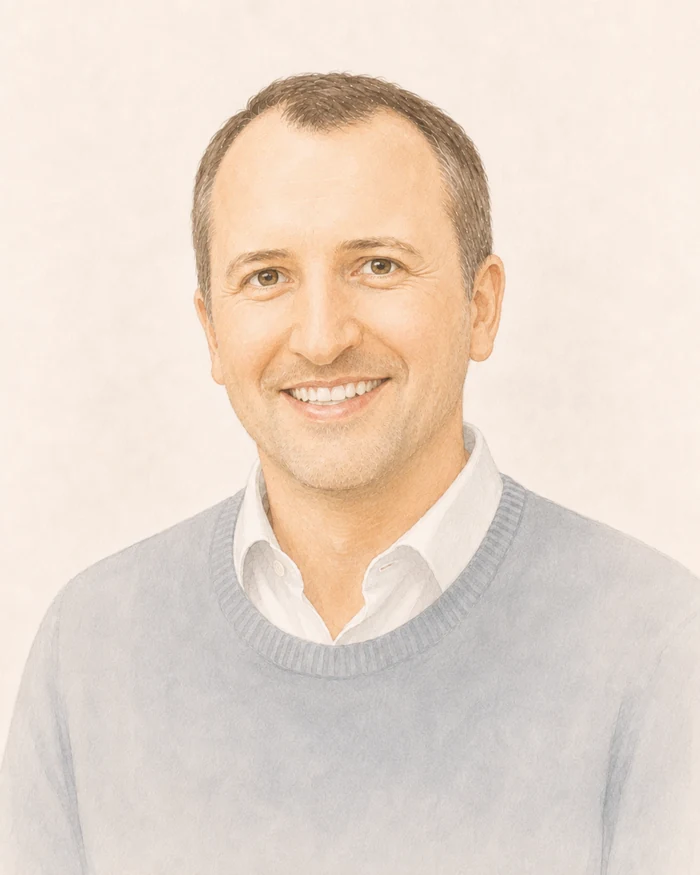
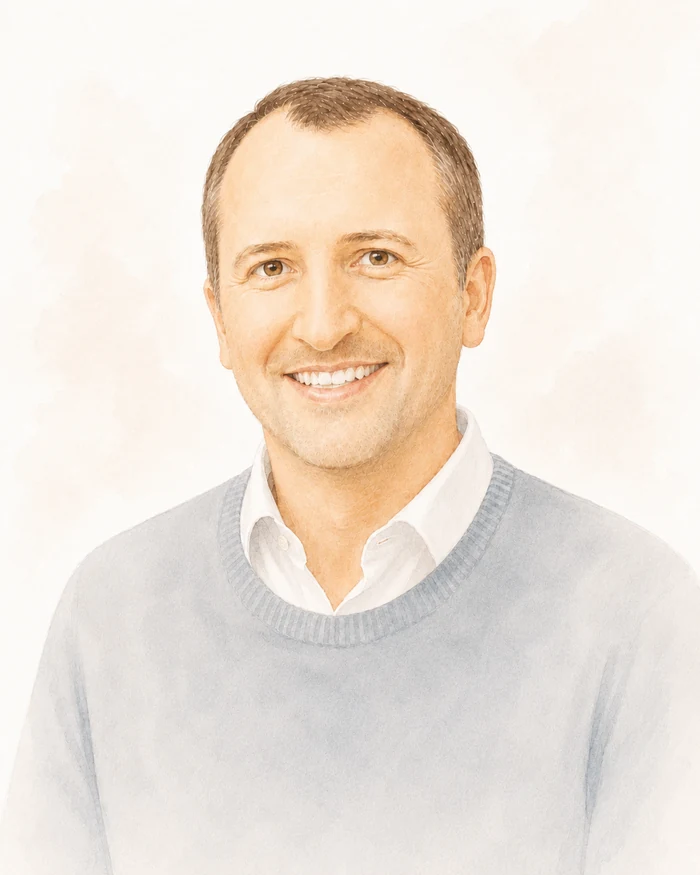
Newer portrait, and one header layout across the three pages
Portrait regenerated from the newer source at the same sizes and filenames.

The Research header is back to the same layout as Teaching and Working with
organisations: a 440px illustration, no page-specific column width. The title
drops a step on all three, from 43px to 33px, because at full size it
dominated the illustration beside it.

Headers now measure:
  research  image 440x330, text block 180px, header 442px
  teaching  image 440x330, text block 353px, header 465px
  practice  image 440x330, text block 315px, header 442px

Research still differs in one respect that CSS cannot settle: its standfirst
is a single sentence where the other two are paragraphs, so its text block is
180px against 315 and 353, and the illustration is the taller element rather
than the shorter one. A second sentence in that standfirst would even it out.

diff --git a/assets/js/site.js b/assets/js/site.js
@@ -287,7 +287,7 @@ const pages = {
             <a class="btn btn-ghost" href="${U('/practice/')}">${T('Working with organisations', 'Samenwerking met de praktijk')}</a>
           </div>
         </div>
-        <div class="portrait"><picture><source srcset="/portrait-staff.webp?v=20260811b" type="image/webp"><img src="/portrait-staff.png?v=20260811b" alt="${T('Portrait of Joost van de Brake', 'Portret van Joost van de Brake')}" width="420" height="560" loading="eager" fetchpriority="high"></picture></div>
+        <div class="portrait"><picture><source srcset="/portrait-staff.webp?v=20260811c" type="image/webp"><img src="/portrait-staff.png?v=20260811c" alt="${T('Portrait of Joost van de Brake', 'Portret van Joost van de Brake')}" width="420" height="560" loading="eager" fetchpriority="high"></picture></div>
       </div>
     </section>
 
@@ -390,7 +390,7 @@ const pages = {
       'Mijn onderzoek gaat over de vraag hoe mensen samenwerken binnen en tussen teams in moderne organisaties.'
     )}</p></div>
       <figure class="pg-hd-figure">
-        <img src="/assets/illustrations/research.webp?v=20260811b" width="1000" height="750"
+        <img src="/assets/illustrations/research.webp?v=20260811c" width="1000" height="750"
              alt="${T('Joost van de Brake at a desk, annotating a manuscript beside notebooks, printed charts, a network diagram, and a stack of organisational behaviour books.', 'Joost van de Brake aan zijn bureau terwijl hij aantekeningen maakt in een manuscript, naast notitieboeken, uitgeprinte grafieken, een netwerkdiagram en een stapel boeken over organisatiegedrag.')}"
              loading="eager" decoding="async">
       </figure>
@@ -498,7 +498,7 @@ const pages = {
       'Ik geef onderwijs aan studenten Management en Bedrijfskunde en aan senior leidinggevenden over de uitdagingen van moderne werkarrangementen: teamdynamiek, multiple team membership, hybride werk en duurzame inzetbaarheid. Mijn aanpak verbindt academische theorie met praktische toepassing, en ik betrek studenten actief bij mijn eigen onderzoeksprojecten.'
     )}</p></div>
       <figure class="pg-hd-figure">
-        <img src="/assets/illustrations/teaching.webp?v=20260811b" width="1000" height="750"
+        <img src="/assets/illustrations/teaching.webp?v=20260811c" width="1000" height="750"
              alt="${T('Joost van de Brake teaching a full lecture hall, with a network diagram and charts on the screen behind him.', 'Joost van de Brake geeft college in een volle collegezaal, met een netwerkdiagram en grafieken op het scherm achter hem.')}"
              loading="eager" decoding="async">
       </figure>
@@ -580,7 +580,7 @@ const pages = {
       'Ik werk samen met HR-teams, leidinggevenden en projectcontrollers in organisaties die hun team- en mensvraagstukken serieus willen aanpakken en willen handelen op basis van wat de evidence laat zien. Eerdere partners zijn onder andere toegepaste onderzoeksinstituten, ziekenhuizen, energie- en infrastructuurbedrijven, landelijke zorgkoepels, gemeenten en ministeries. Ik sta open voor nieuwe samenwerkingen.'
     )}</p></div>
       <figure class="pg-hd-figure">
-        <img src="/assets/illustrations/practice.webp?v=20260811b" width="1000" height="750"
+        <img src="/assets/illustrations/practice.webp?v=20260811c" width="1000" height="750"
              alt="${T('Joost van de Brake in discussion with five colleagues around a table covered in printed charts and network diagrams.', 'Joost van de Brake in gesprek met vijf collega’s rond een tafel vol uitgeprinte grafieken en netwerkdiagrammen.')}"
              loading="eager" decoding="async">
       </figure>

diff --git a/index.html b/index.html
@@ -231,9 +231,9 @@
   location.replace('/' + id + '/' + (nl ? '?lang=nl' : ''));
 })();
 </script>
-<link rel="stylesheet" href="/assets/css/tokens.css?rev=20260811j">
-<link rel="stylesheet" href="/assets/css/base.css?rev=20260811j">
-<link rel="stylesheet" href="/assets/css/home.css?rev=20260811j">
+<link rel="stylesheet" href="/assets/css/tokens.css?rev=20260811k">
+<link rel="stylesheet" href="/assets/css/base.css?rev=20260811k">
+<link rel="stylesheet" href="/assets/css/home.css?rev=20260811k">
 </head>
 <body data-page="home">
 
@@ -285,7 +285,7 @@
           <a class="btn btn-ghost" href="/practice/">Working with organisations</a>
         </div>
       </div>
-      <div class="portrait"><picture><source srcset="/portrait-staff.webp?v=20260811b" type="image/webp"><img src="/portrait-staff.png?v=20260811b" alt="Portrait of Joost van de Brake" width="420" height="560" loading="eager" fetchpriority="high"></picture></div>
+      <div class="portrait"><picture><source srcset="/portrait-staff.webp?v=20260811c" type="image/webp"><img src="/portrait-staff.png?v=20260811c" alt="Portrait of Joost van de Brake" width="420" height="560" loading="eager" fetchpriority="high"></picture></div>
     </div>
   </section>
 
@@ -384,6 +384,6 @@
 <!-- footer:end -->
 
 
-<script src="/assets/js/site.js?rev=20260811j" defer></script>
+<script src="/assets/js/site.js?rev=20260811k" defer></script>
 </body>
 </html>

diff --git a/mtm-portfolio-navigator/index.html b/mtm-portfolio-navigator/index.html
@@ -31,9 +31,9 @@
   <link rel="preconnect" href="https://fonts.googleapis.com">
   <link rel="preconnect" href="https://fonts.gstatic.com" crossorigin>
   <link href="https://fonts.googleapis.com/css2?family=Libre+Baskerville:ital,wght@0,400;0,700;1,400&family=Source+Sans+3:opsz,wght@9..40,300;9..40,400;9..40,600;9..40,700&display=swap" rel="stylesheet">
-  <link rel="stylesheet" href="/assets/css/tokens.css?rev=20260811j">
-  <link rel="stylesheet" href="/assets/css/base.css?rev=20260811j">
-  <link rel="stylesheet" href="styles.css?rev=20260811j">
+  <link rel="stylesheet" href="/assets/css/tokens.css?rev=20260811k">
+  <link rel="stylesheet" href="/assets/css/base.css?rev=20260811k">
+  <link rel="stylesheet" href="styles.css?rev=20260811k">
   <script type="application/ld+json">
   {
     "@context": "https://schema.org",
@@ -174,7 +174,7 @@
   <noscript>
     <div class="noscript">Enable JavaScript to use the MTM Portfolio Navigator.</div>
   </noscript>
-  <script src="content.js?rev=20260811j"></script>
-  <script src="app.js?rev=20260811j"></script>
+  <script src="content.js?rev=20260811k"></script>
+  <script src="app.js?rev=20260811k"></script>
 </body>
 </html>

diff --git a/mtm-resources/index.html b/mtm-resources/index.html
@@ -31,9 +31,9 @@
   <link rel="preconnect" href="https://fonts.googleapis.com">
   <link rel="preconnect" href="https://fonts.gstatic.com" crossorigin>
   <link href="https://fonts.googleapis.com/css2?family=Libre+Baskerville:ital,wght@0,400;0,700;1,400&family=Source+Sans+3:opsz,wght@9..40,300;9..40,400;9..40,600;9..40,700&display=swap" rel="stylesheet">
-  <link rel="stylesheet" href="/assets/css/tokens.css?rev=20260811j">
-  <link rel="stylesheet" href="/assets/css/base.css?rev=20260811j">
-  <link rel="stylesheet" href="styles.css?rev=20260811j">
+  <link rel="stylesheet" href="/assets/css/tokens.css?rev=20260811k">
+  <link rel="stylesheet" href="/assets/css/base.css?rev=20260811k">
+  <link rel="stylesheet" href="styles.css?rev=20260811k">
   <script type="application/ld+json">
   {
     "@context": "https://schema.org",
@@ -343,7 +343,7 @@
     </div>
   </footer>
 
-  <script src="content.js?rev=20260811j"></script>
-  <script src="app.js?rev=20260811j"></script>
+  <script src="content.js?rev=20260811k"></script>
+  <script src="app.js?rev=20260811k"></script>
 </body>
 </html>

diff --git a/assets/css/home.css b/assets/css/home.css
@@ -817,18 +817,11 @@
   margin: 0;
 }
 
-/* Teaching and Working with organisations open with a paragraph; Research
-   opens with a single sentence, so its text block is much shorter. Narrowing
-   the whole column rather than the figure inside it keeps the illustration
-   next to the text instead of stranded against the right edge, and at this
-   size it barely rises above the text at all. */
-/* Inside the media query on purpose: this selector outranks the single-column
-   rule below, so unscoped it would keep two columns on a phone and squeeze the
-   text column to nothing. */
-@media (min-width: 901px) {
-  body[data-page="research"] .pg-hd.has-figure .wrap {
-    grid-template-columns: minmax(0, 1fr) minmax(0, 290px);
-  }
+/* The title has roughly half the width it would have on its own, so it takes
+   a step down the scale. At full size it dominated the illustration beside it,
+   most visibly on Research, whose standfirst is a single sentence. */
+.pg-hd.has-figure .wrap h1 {
+  font-size: clamp(1.7rem, 2.6vw, 2.1rem);
 }
 
 .pg-hd-figure img {

diff --git a/resources/index.html b/resources/index.html
@@ -98,9 +98,9 @@
   ]
 }
 </script>
-<link rel="stylesheet" href="/assets/css/tokens.css?rev=20260811j">
-<link rel="stylesheet" href="/assets/css/base.css?rev=20260811j">
-<link rel="stylesheet" href="/assets/css/home.css?rev=20260811j">
+<link rel="stylesheet" href="/assets/css/tokens.css?rev=20260811k">
+<link rel="stylesheet" href="/assets/css/base.css?rev=20260811k">
+<link rel="stylesheet" href="/assets/css/home.css?rev=20260811k">
 </head>
 <body data-page="resources">
 
@@ -158,6 +158,6 @@
   </div>
 </footer>
 
-<script src="/assets/js/site.js?rev=20260811j" defer></script>
+<script src="/assets/js/site.js?rev=20260811k" defer></script>
 </body>
 </html>

diff --git a/practice/index.html b/practice/index.html
@@ -98,9 +98,9 @@
   ]
 }
 </script>
-<link rel="stylesheet" href="/assets/css/tokens.css?rev=20260811j">
-<link rel="stylesheet" href="/assets/css/base.css?rev=20260811j">
-<link rel="stylesheet" href="/assets/css/home.css?rev=20260811j">
+<link rel="stylesheet" href="/assets/css/tokens.css?rev=20260811k">
+<link rel="stylesheet" href="/assets/css/base.css?rev=20260811k">
+<link rel="stylesheet" href="/assets/css/home.css?rev=20260811k">
 </head>
 <body data-page="practice">
 
@@ -158,6 +158,6 @@
   </div>
 </footer>
 
-<script src="/assets/js/site.js?rev=20260811j" defer></script>
+<script src="/assets/js/site.js?rev=20260811k" defer></script>
 </body>
 </html>

diff --git a/research/index.html b/research/index.html
@@ -98,9 +98,9 @@
   ]
 }
 </script>
-<link rel="stylesheet" href="/assets/css/tokens.css?rev=20260811j">
-<link rel="stylesheet" href="/assets/css/base.css?rev=20260811j">
-<link rel="stylesheet" href="/assets/css/home.css?rev=20260811j">
+<link rel="stylesheet" href="/assets/css/tokens.css?rev=20260811k">
+<link rel="stylesheet" href="/assets/css/base.css?rev=20260811k">
+<link rel="stylesheet" href="/assets/css/home.css?rev=20260811k">
 </head>
 <body data-page="research">
 
@@ -158,6 +158,6 @@
   </div>
 </footer>
 
-<script src="/assets/js/site.js?rev=20260811j" defer></script>
+<script src="/assets/js/site.js?rev=20260811k" defer></script>
 </body>
 </html>

diff --git a/teaching/index.html b/teaching/index.html
@@ -98,9 +98,9 @@
   ]
 }
 </script>
-<link rel="stylesheet" href="/assets/css/tokens.css?rev=20260811j">
-<link rel="stylesheet" href="/assets/css/base.css?rev=20260811j">
-<link rel="stylesheet" href="/assets/css/home.css?rev=20260811j">
+<link rel="stylesheet" href="/assets/css/tokens.css?rev=20260811k">
+<link rel="stylesheet" href="/assets/css/base.css?rev=20260811k">
+<link rel="stylesheet" href="/assets/css/home.css?rev=20260811k">
 </head>
 <body data-page="teaching">
 
@@ -158,6 +158,6 @@
   </div>
 </footer>
 
-<script src="/assets/js/site.js?rev=20260811j" defer></script>
+<script src="/assets/js/site.js?rev=20260811k" defer></script>
 </body>
 </html>

diff --git a/contact/index.html b/contact/index.html
@@ -98,9 +98,9 @@
   ]
 }
 </script>
-<link rel="stylesheet" href="/assets/css/tokens.css?rev=20260811j">
-<link rel="stylesheet" href="/assets/css/base.css?rev=20260811j">
-<link rel="stylesheet" href="/assets/css/home.css?rev=20260811j">
+<link rel="stylesheet" href="/assets/css/tokens.css?rev=20260811k">
+<link rel="stylesheet" href="/assets/css/base.css?rev=20260811k">
+<link rel="stylesheet" href="/assets/css/home.css?rev=20260811k">
 </head>
 <body data-page="contact">
 
@@ -158,6 +158,6 @@
   </div>
 </footer>
 
-<script src="/assets/js/site.js?rev=20260811j" defer></script>
+<script src="/assets/js/site.js?rev=20260811k" defer></script>
 </body>
 </html>
